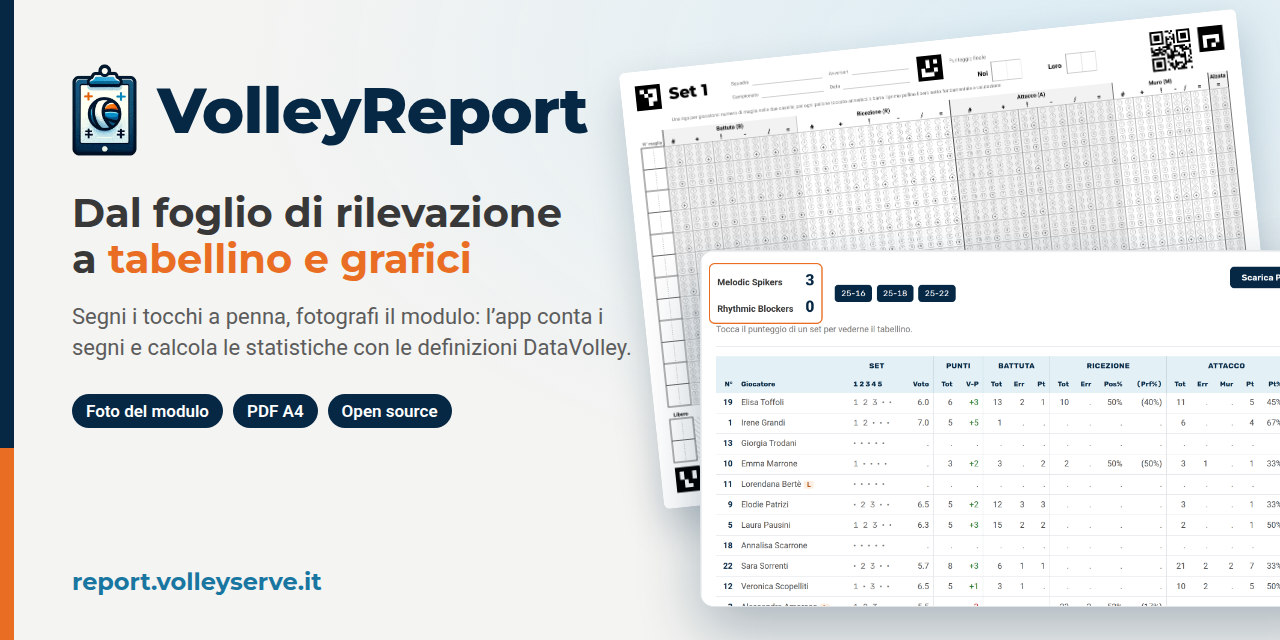
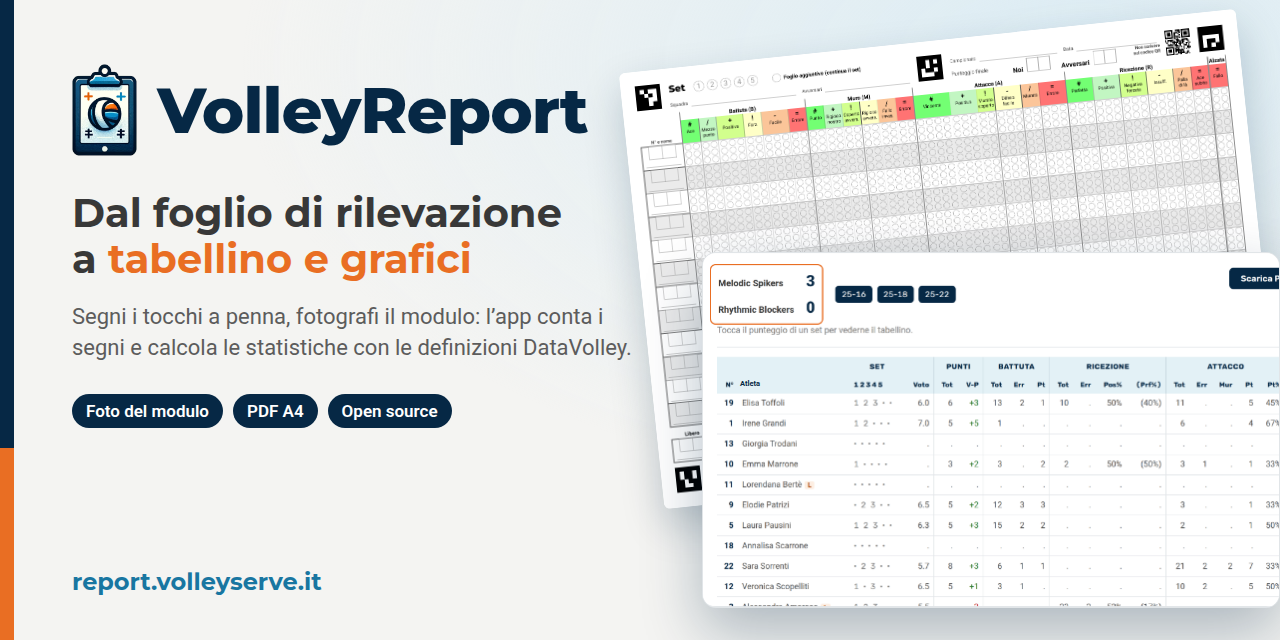
Social preview con il modulo attuale e "Atleta" nel tabellino

diff --git a/tools/social-preview/README.md b/tools/social-preview/README.md
@@ -10,7 +10,7 @@ repository is shared. It is rendered from `social-preview.html` in a browser at
 1280 × 640, with next to it:
 
 - `og-logo.png`: `src/assets/volleyreportxls-logo.png`;
-- `og-form-1.png`: page 1 of `docs/examples/modulo-rilevazione.pdf` at 110 dpi;
+- `og-form-1.png`: page 1 of the current form (`dist/forms/modulo-rilevazione.pdf`, made by `npm run build`) at 110 dpi;
 - `og-tab-crop.png`: the scoresheet card of the example match (top part, 2× screenshot);
 - the Montserrat and Roboto `latin-wght-normal.woff2` files from `node_modules/@fontsource-variable`.
 
